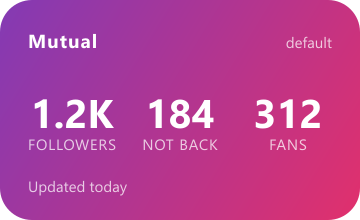
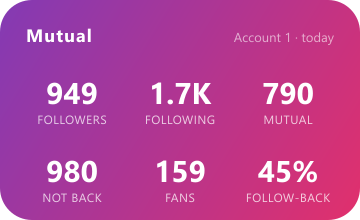
feat(widget): responsive layout + let the launcher actually resize it
Device feedback on the first version was fair: a large tile showing 3 of the 6
numbers already stored, with dead space above and below, that could not be made
smaller. Three separate mistakes:

- `justifyContent: 'space-between'` on the shell pushed header/stats/footer to
  the edges, so the taller the widget the emptier it looked.
- minWidth/minHeight were 180x110dp and the plugin sets minResize == min, so
  the launcher refused to shrink it at all (confirmed via `dumpsys appwidget`).
- Only followers/unfollowers/fans were shown, wasting the space it demanded.

Now the layout is chosen from the launcher's MEASURED size, which the library
hands to every render via WidgetInfo:

- COMPACT (< 110dp tall or < 160dp wide): one hero number (not-following-back)
  plus a small brand/followers column. Fits a 2x1 tile with no empty rows.
- FULL: all six stats in a 3x2 grid whose rows use `flex: 1`, so they divide
  the available height instead of leaving gaps at any size.

WidgetInfo is threaded through both render paths (the headless task handler and
the app-side requestWidgetUpdate), so placed widgets and post-import repaints
both get it. Config: minWidth 110dp / minHeight 40dp, target 4x2, maxResize
360x200dp. Picker preview regenerated to match the 6-value grid.

tsc 0 / jest 35 / expo-doctor 20/20. versionCode 5.

diff --git a/src/features/widget/MutualSummaryWidget.tsx b/src/features/widget/MutualSummaryWidget.tsx
@@ -17,6 +17,15 @@ import { formatWidgetCount, formatWidgetDate } from '../../shared/utils/widgetSu
  *
  * No `useTheme()` / no hooks: a widget has no React context and no theme — the
  * brand gradient is hardcoded and reads correctly in both light and dark.
+ *
+ * RESPONSIVE. The first version used `justifyContent: 'space-between'` on a
+ * fixed 3-stat layout, so the taller the widget got the emptier it looked, and
+ * `minWidth/minHeight` were set so high the launcher refused to shrink it — a
+ * large tile showing 3 of the 6 numbers we already store. Now the layout is
+ * chosen from the measured size the launcher gives us:
+ *   - COMPACT (short/narrow): one hero number, no wasted rows.
+ *   - FULL: all six stats in a 3x2 grid whose rows FLEX to fill the height,
+ *     so there is no dead space at any size.
  */
 
 // Brand gradient (matches assets/icon.svg) — white text is legible on both stops.
@@ -24,13 +33,21 @@ const GRADIENT_FROM = '#833AB4';
 const GRADIENT_TO = '#E1306C';
 const WHITE = '#FFFFFF';
 const MUTED = 'rgba(255, 255, 255, 0.75)';
+const FAINT = 'rgba(255, 255, 255, 0.6)';
+
+/** Below this height (dp) there is no room for a grid — show one number. */
+const COMPACT_MAX_HEIGHT = 110;
+/** Below this width (dp) three columns would be unreadable. */
+const COMPACT_MAX_WIDTH = 160;
 
 interface StatProps {
   label: string;
-  value: number;
+  value: string;
+  size?: number;
 }
 
-function Stat({ label, value }: StatProps) {
+/** One grid cell. `flex: 1` so a row divides its width evenly. */
+function Stat({ label, value, size = 20 }: StatProps) {
   return (
     <FlexWidget
       style={{
@@ -41,18 +58,42 @@ function Stat({ label, value }: StatProps) {
       }}
     >
       <TextWidget
-        text={formatWidgetCount(value)}
-        style={{ fontSize: 22, fontWeight: 'bold', color: WHITE }}
+        text={value}
+        style={{ fontSize: size, fontWeight: 'bold', color: WHITE }}
       />
       <TextWidget
         text={label}
-        style={{ fontSize: 9, color: MUTED, letterSpacing: 0.4 }}
+        style={{ fontSize: 9, color: MUTED, letterSpacing: 0.3 }}
+        maxLines={1}
       />
     </FlexWidget>
   );
 }
 
-function Shell({ children }: { children: React.ReactNode }) {
+/** A grid row that expands to share the leftover height evenly. */
+function Row({ children }: { children: React.ReactNode }) {
+  return (
+    <FlexWidget
+      style={{
+        flex: 1,
+        width: 'match_parent',
+        flexDirection: 'row',
+        alignItems: 'center',
+        justifyContent: 'space-between',
+      }}
+    >
+      {children}
+    </FlexWidget>
+  );
+}
+
+function Shell({
+  children,
+  padding,
+}: {
+  children: React.ReactNode;
+  padding: number;
+}) {
   return (
     <FlexWidget
       clickAction="OPEN_APP"
@@ -61,9 +102,8 @@ function Shell({ children }: { children: React.ReactNode }) {
         height: 'match_parent',
         width: 'match_parent',
         flexDirection: 'column',
-        justifyContent: 'space-between',
-        paddingHorizontal: 14,
-        paddingVertical: 12,
+        paddingHorizontal: padding,
+        paddingVertical: padding,
         borderRadius: 16,
         backgroundGradient: {
           from: GRADIENT_FROM,
@@ -79,66 +119,132 @@ function Shell({ children }: { children: React.ReactNode }) {
 
 export interface MutualSummaryWidgetProps {
   summary: WidgetSummary | null;
+  /** Measured size from the launcher, in dp. Absent → assume the full layout. */
+  width?: number;
+  height?: number;
 }
 
-export function MutualSummaryWidget({ summary }: MutualSummaryWidgetProps) {
-  // Empty state — never show zeros pretending to be real data.
+export function MutualSummaryWidget({
+  summary,
+  width,
+  height,
+}: MutualSummaryWidgetProps) {
+  const compact =
+    (typeof height === 'number' && height < COMPACT_MAX_HEIGHT) ||
+    (typeof width === 'number' && width < COMPACT_MAX_WIDTH);
+
+  // ---- Empty state. Never show zeros pretending to be data. ----------------
   if (!summary) {
     return (
-      <Shell>
-        <TextWidget
-          text="Mutual"
-          style={{ fontSize: 11, fontWeight: 'bold', color: WHITE, letterSpacing: 0.6 }}
-        />
-        <TextWidget
-          text="Open Mutual to import your data"
-          style={{ fontSize: 12, color: WHITE }}
-          maxLines={2}
-        />
-        <TextWidget text="No data yet" style={{ fontSize: 9, color: MUTED }} />
+      <Shell padding={compact ? 10 : 14}>
+        <FlexWidget
+          style={{
+            flex: 1,
+            width: 'match_parent',
+            flexDirection: 'column',
+            justifyContent: 'center',
+          }}
+        >
+          <TextWidget
+            text="Mutual"
+            style={{
+              fontSize: 11,
+              fontWeight: 'bold',
+              color: WHITE,
+              letterSpacing: 0.6,
+            }}
+          />
+          <TextWidget
+            text="Tap to import your data"
+            style={{ fontSize: compact ? 11 : 13, color: MUTED }}
+            maxLines={2}
+          />
+        </FlexWidget>
       </Shell>
     );
   }
 
+  // ---- COMPACT: one number that answers the actual question. ---------------
+  if (compact) {
+    return (
+      <Shell padding={10}>
+        <FlexWidget
+          style={{
+            flex: 1,
+            width: 'match_parent',
+            flexDirection: 'row',
+            alignItems: 'center',
+            justifyContent: 'space-between',
+          }}
+        >
+          <FlexWidget style={{ flexDirection: 'column' }}>
+            <TextWidget
+              text={formatWidgetCount(summary.unfollowers)}
+              style={{ fontSize: 26, fontWeight: 'bold', color: WHITE }}
+            />
+            <TextWidget
+              text="NOT FOLLOWING BACK"
+              style={{ fontSize: 8, color: MUTED, letterSpacing: 0.3 }}
+              maxLines={1}
+            />
+          </FlexWidget>
+          <FlexWidget style={{ flexDirection: 'column', alignItems: 'flex-end' }}>
+            <TextWidget
+              text="Mutual"
+              style={{ fontSize: 10, fontWeight: 'bold', color: WHITE }}
+            />
+            <TextWidget
+              text={`${formatWidgetCount(summary.followers)} followers`}
+              style={{ fontSize: 9, color: FAINT }}
+              maxLines={1}
+            />
+          </FlexWidget>
+        </FlexWidget>
+      </Shell>
+    );
+  }
+
+  // ---- FULL: all six stored numbers, rows flexing to fill the height. -----
   return (
-    <Shell>
+    <Shell padding={12}>
       <FlexWidget
         style={{
           width: 'match_parent',
           flexDirection: 'row',
-          justifyContent: 'space-between',
           alignItems: 'center',
+          justifyContent: 'space-between',
         }}
       >
         <TextWidget
           text="Mutual"
-          style={{ fontSize: 11, fontWeight: 'bold', color: WHITE, letterSpacing: 0.6 }}
+          style={{
+            fontSize: 11,
+            fontWeight: 'bold',
+            color: WHITE,
+            letterSpacing: 0.6,
+          }}
         />
         <TextWidget
-          text={summary.accountName}
-          style={{ fontSize: 9, color: MUTED }}
+          text={`${summary.accountName} · ${formatWidgetDate(summary.lastUpdated)}`}
+          style={{ fontSize: 9, color: FAINT }}
           truncate="END"
           maxLines={1}
         />
       </FlexWidget>
 
-      <FlexWidget
-        style={{
-          width: 'match_parent',
-          flexDirection: 'row',
-          alignItems: 'center',
-          justifyContent: 'space-between',
-        }}
-      >
-        <Stat label="FOLLOWERS" value={summary.followers} />
-        <Stat label="NOT BACK" value={summary.unfollowers} />
-        <Stat label="FANS" value={summary.fans} />
-      </FlexWidget>
-
-      <TextWidget
-        text={`Updated ${formatWidgetDate(summary.lastUpdated)}`}
-        style={{ fontSize: 9, color: MUTED }}
-      />
+      <Row>
+        <Stat label="FOLLOWERS" value={formatWidgetCount(summary.followers)} />
+        <Stat label="FOLLOWING" value={formatWidgetCount(summary.following)} />
+        <Stat label="MUTUAL" value={formatWidgetCount(summary.mutual)} />
+      </Row>
+      <Row>
+        <Stat label="NOT BACK" value={formatWidgetCount(summary.unfollowers)} />
+        <Stat label="FANS" value={formatWidgetCount(summary.fans)} />
+        <Stat
+          label="FOLLOW-BACK"
+          value={`${Math.round(summary.followBackRatio)}%`}
+        />
+      </Row>
     </Shell>
   );
 }

diff --git a/scripts/gen-widget-preview.js b/scripts/gen-widget-preview.js
@@ -20,14 +20,17 @@ const GRADIENT_FROM = '#833AB4';
 const GRADIENT_TO = '#E1306C';
 const FONT = 'Segoe UI, Roboto, Arial, Helvetica, sans-serif';
 
-function stat(x, value, label) {
+function stat(x, y, value, label) {
   return `
-    <text x="${x}" y="128" font-family="${FONT}" font-size="40" font-weight="700"
+    <text x="${x}" y="${y}" font-family="${FONT}" font-size="30" font-weight="700"
           fill="#FFFFFF" text-anchor="middle">${value}</text>
-    <text x="${x}" y="150" font-family="${FONT}" font-size="15" letter-spacing="0.8"
+    <text x="${x}" y="${y + 20}" font-family="${FONT}" font-size="12" letter-spacing="0.5"
           fill="rgba(255,255,255,0.75)" text-anchor="middle">${label}</text>`;
 }
 
+// Mirrors the FULL (3x2 grid) layout in MutualSummaryWidget.tsx, which is what
+// the default 4x2 placement shows. Keep the two in sync when the layout changes.
+const COL = [72, 180, 288];
 const svg = `<?xml version="1.0" encoding="UTF-8"?>
 <svg xmlns="http://www.w3.org/2000/svg" width="${W}" height="${H}" viewBox="0 0 ${W} ${H}">
   <defs>
@@ -39,17 +42,18 @@ const svg = `<?xml version="1.0" encoding="UTF-8"?>
 
   <rect x="0" y="0" width="${W}" height="${H}" rx="32" ry="32" fill="url(#bg)"/>
 
-  <text x="28" y="48" font-family="${FONT}" font-size="19" font-weight="700"
+  <text x="26" y="42" font-family="${FONT}" font-size="18" font-weight="700"
         letter-spacing="1" fill="#FFFFFF">Mutual</text>
-  <text x="${W - 28}" y="48" font-family="${FONT}" font-size="15"
-        fill="rgba(255,255,255,0.75)" text-anchor="end">default</text>
+  <text x="${W - 26}" y="42" font-family="${FONT}" font-size="13"
+        fill="rgba(255,255,255,0.6)" text-anchor="end">Account 1 &#183; today</text>
 
-  ${stat(72, '1.2K', 'FOLLOWERS')}
-  ${stat(180, '184', 'NOT BACK')}
-  ${stat(288, '312', 'FANS')}
+  ${stat(COL[0], 104, '949', 'FOLLOWERS')}
+  ${stat(COL[1], 104, '1.7K', 'FOLLOWING')}
+  ${stat(COL[2], 104, '790', 'MUTUAL')}
 
-  <text x="28" y="192" font-family="${FONT}" font-size="15"
-        fill="rgba(255,255,255,0.75)">Updated today</text>
+  ${stat(COL[0], 182, '980', 'NOT BACK')}
+  ${stat(COL[1], 182, '159', 'FANS')}
+  ${stat(COL[2], 182, '45%', 'FOLLOW-BACK')}
 </svg>`;
 
 async function main() {

diff --git a/src/features/widget/widgetTaskHandler.tsx b/src/features/widget/widgetTaskHandler.tsx
@@ -20,11 +20,23 @@ import { MutualSummaryWidget } from './MutualSummaryWidget';
 
 const WIDGET_NAME = 'MutualSummary';
 
-/** Shared renderer, also used by `requestWidgetUpdate` from the app side. */
+/**
+ * Shared renderer, also used by `requestWidgetUpdate` from the app side.
+ * `info` carries the launcher's MEASURED size (dp) so the widget can pick a
+ * compact or full layout — without it the widget always drew the full grid and
+ * looked empty at small sizes.
+ */
 export function renderMutualWidget(
   summary: Awaited<ReturnType<typeof dataStore.getWidgetSummary>>,
+  info?: { width: number; height: number },
 ) {
-  return <MutualSummaryWidget summary={summary} />;
+  return (
+    <MutualSummaryWidget
+      summary={summary}
+      width={info?.width}
+      height={info?.height}
+    />
+  );
 }
 
 export const widgetTaskHandler = async (
@@ -42,7 +54,7 @@ export const widgetTaskHandler = async (
       case 'WIDGET_CLICK': {
         // Plaintext, aggregate-only read — no decrypt, no master key needed.
         const summary = await dataStore.getWidgetSummary();
-        props.renderWidget(renderMutualWidget(summary));
+        props.renderWidget(renderMutualWidget(summary, props.widgetInfo));
         break;
       }
       case 'WIDGET_DELETED':

diff --git a/src/services/widget.ts b/src/services/widget.ts
@@ -83,7 +83,9 @@ export async function requestUpdate(): Promise<void> {
     const summary = await dataStore.getWidgetSummary();
     await W.requestWidgetUpdate({
       widgetName: WIDGET_NAME,
-      renderWidget: () => renderMutualWidget(summary),
+      // The callback receives WidgetInfo per placed widget — pass its measured
+      // size so each instance renders the layout that fits it.
+      renderWidget: (info) => renderMutualWidget(summary, info),
     });
   } catch (error) {
     console.warn('Widget update failed:', error);
